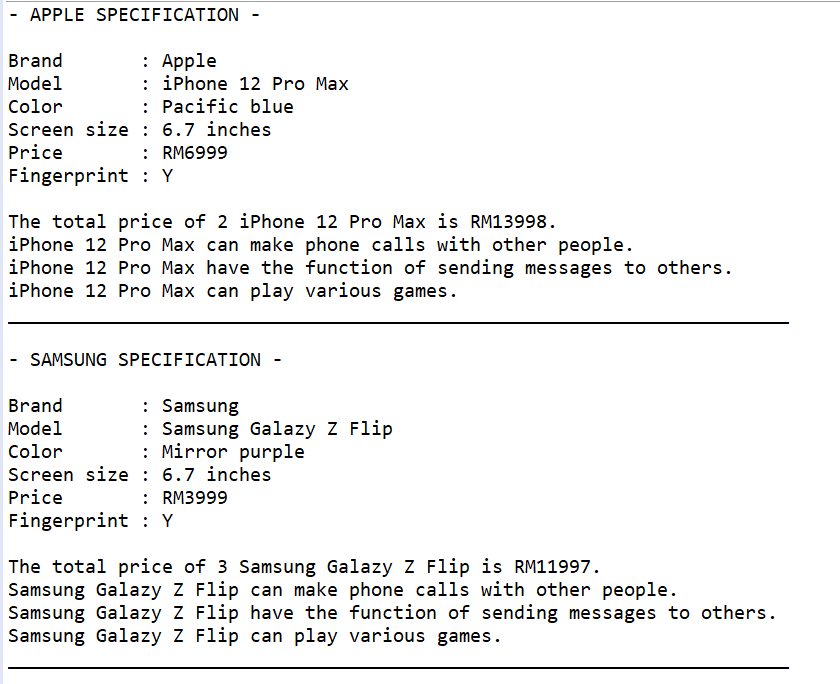
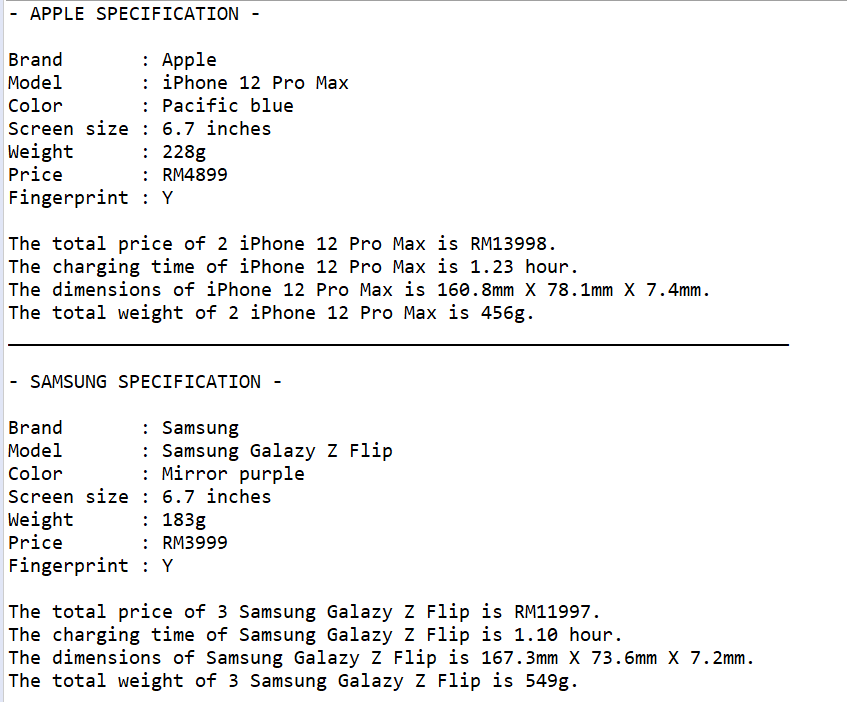
Add files via upload

diff --git a/Exercise 2.2/MainSmartphones.java b/Exercise 2.2/MainSmartphones.java
@@ -12,45 +12,45 @@ public class MainSmartphones {
 		
 		System.out.println("- APPLE SPECIFICATION -");
 		System.out.println();
-		Apple.phoneSpec("Apple", "iPhone 12 Pro Max", "Pacific blue", 6.7, 6999, 'Y');
+		Apple.phoneSpec("Apple", "iPhone 12 Pro Max", "Pacific blue", 6.7, 228, 4899, 'Y');
 		System.out.println();
-		Apple.totalprice(6999, 2, "iPhone 12 Pro Max");
-		Apple.PhoneCall("iPhone 12 Pro Max");
-		Apple.SendMessage("iPhone 12 Pro Max");
-		Apple.PlayingGame("iPhone 12 Pro Max");
+		Apple.totalPrice(6999, 2, "iPhone 12 Pro Max");
+		Apple.chargingTime(3.687, 3, "iPhone 12 Pro Max");
+		Apple.dimensions(160.8, 78.1, 7.4, "iPhone 12 Pro Max");
+		Apple.weight(228, 2, "iPhone 12 Pro Max");
 		System.out.println("_______________________________________________________________________");
 		System.out.println();
 		
 		System.out.println("- SAMSUNG SPECIFICATION -");
 		System.out.println();
-		Samsung.phoneSpec("Samsung", "Samsung Galazy Z Flip", "Mirror purple", 6.7, 3999, 'Y');
+		Samsung.phoneSpec("Samsung", "Samsung Galazy Z Flip", "Mirror purple", 6.7, 183, 3999, 'Y');
 		System.out.println();
-		Samsung.totalprice(3999, 3, "Samsung Galazy Z Flip");
-		Samsung.PhoneCall("Samsung Galazy Z Flip");
-		Samsung.SendMessage("Samsung Galazy Z Flip");
-		Samsung.PlayingGame("Samsung Galazy Z Flip");
+		Samsung.totalPrice(3999, 3, "Samsung Galazy Z Flip");
+		Samsung.chargingTime(3.3, 3, "Samsung Galazy Z Flip");
+		Samsung.dimensions(167.3, 73.6, 7.2, "Samsung Galazy Z Flip");
+		Samsung.weight(183, 3, "Samsung Galazy Z Flip");
 		System.out.println("_______________________________________________________________________");
 		System.out.println();
 		
 		System.out.println("- HUAWEI SPECIFICATION -");
 		System.out.println();
-		Huawei.phoneSpec("Huawei", "Huawei Mate 40 Pro", "Mystic silver", 6.76, 6999, 'Y');
+		Huawei.phoneSpec("Huawei", "Huawei Mate 40 Pro", "Mystic silver", 6.76, 212, 6999, 'Y');
 		System.out.println();
-		Huawei.totalprice(6999, 4, "Huawei Mate 40 Pro");
-		Huawei.PhoneCall("Huawei Mate 40 Pro");
-		Huawei.SendMessage("Huawei Mate 40 Pro");
-		Huawei.PlayingGame("Huawei Mate 40 Pro");
+		Huawei.totalPrice(6999, 4, "Huawei Mate 40 Pro");
+		Huawei.chargingTime(4.4, 4.5, "Huawei Mate 40 Pro");
+		Huawei.dimensions(162.9, 75.5, 9.1, "Huawei Mate 40 Pro");
+		Apple.weight(212, 4, "Huawei Mate 40 Pro");
 		System.out.println("_______________________________________________________________________");
 		System.out.println();
 		
 		System.out.println("- OPPO SPECIFICATION -");
 		System.out.println();
-		Oppo.phoneSpec("Oppo", "Oppo Find X3 Pro", "Gloss black", 6.7, 4299, 'Y');
+		Oppo.phoneSpec("Oppo", "Oppo Find X3 Pro", "Gloss black", 6.7, 193, 4299, 'Y');
 		System.out.println();
-		Oppo.totalprice(4299, 5, "Oppo Find X3 Pro");
-		Oppo.PhoneCall("Oppo Find X3 Pro");
-		Oppo.SendMessage("Oppo Find X3 Pro");
-		Oppo.PlayingGame("Oppo Find X3 Pro");
+		Oppo.totalPrice(4299, 5, "Oppo Find X3 Pro");
+		Oppo.chargingTime(4.5, 4, "Oppo Find X3 Pro");
+		Oppo.dimensions(163.6, 74, 8.3, "Oppo Find X3 Pro");
+		Apple.weight(193, 5, "Oppo Find X3 Pro");
 		System.out.println("_______________________________________________________________________");
 		System.out.println();
 		

diff --git a/Exercise 2.2/Smartphones.java b/Exercise 2.2/Smartphones.java
@@ -6,33 +6,38 @@ public class Smartphones {
 	String model;
 	String color;
 	double screenSize;
+	int weight;
 	int price;
 	char fingerprint;
 	
-	void phoneSpec(String b, String m, String c, double s, int p, char f) {
+	void phoneSpec(String b, String m, String c, double s, int w, int p, char f) {
 		System.out.println("Brand       : " + b +
 							"\nModel       : " + m +
 							"\nColor       : " + c +
 							"\nScreen size : " + s + " inches" +
+							"\nWeight      : " + w + "g" +
 							"\nPrice       : RM" + p +
 							"\nFingerprint : " + f);
 	}
 	
-	void totalprice(int p, int q, String m) {
-		int total = p*q;
-		System.out.println("The total price of " + q + " " + m + " is RM" + total + ".");
+	void totalPrice(int p, int quantity, String m) {
+		int totalPrice = p*quantity;
+		System.out.println("The total price of " + quantity + " " + m + " is RM" + totalPrice + ".");
 	}
 	
-	void PhoneCall(String m) {
-		System.out.println(m + " can make phone calls with other people.");
+	void chargingTime(double Ah, double A, String m) {
+		double chargingTime = Ah/A; // battery capacity (Ah) / charging current (A)
+		System.out.printf("The charging time of " + m + " is %.2f", chargingTime);
+		System.out.println(" hour.");
 	}
 
-	void SendMessage(String m) {
-		System.out.println(m + " have the function of sending messages to others.");
+	void dimensions(double height, double width, double depth, String m) {
+		System.out.println("The dimensions of " + m + " is " + height + "mm X "+ width + "mm X "+ depth + "mm.");
 	}
 
-	void PlayingGame(String m) {
-		System.out.println(m + " can play various games.");
+	void weight(int w, int quantity, String m) {
+		int totalWeight = w*quantity;
+		System.out.println("The total weight of " + quantity + " " + m + " is " + totalWeight + "g.");
 	}
 	
 	
